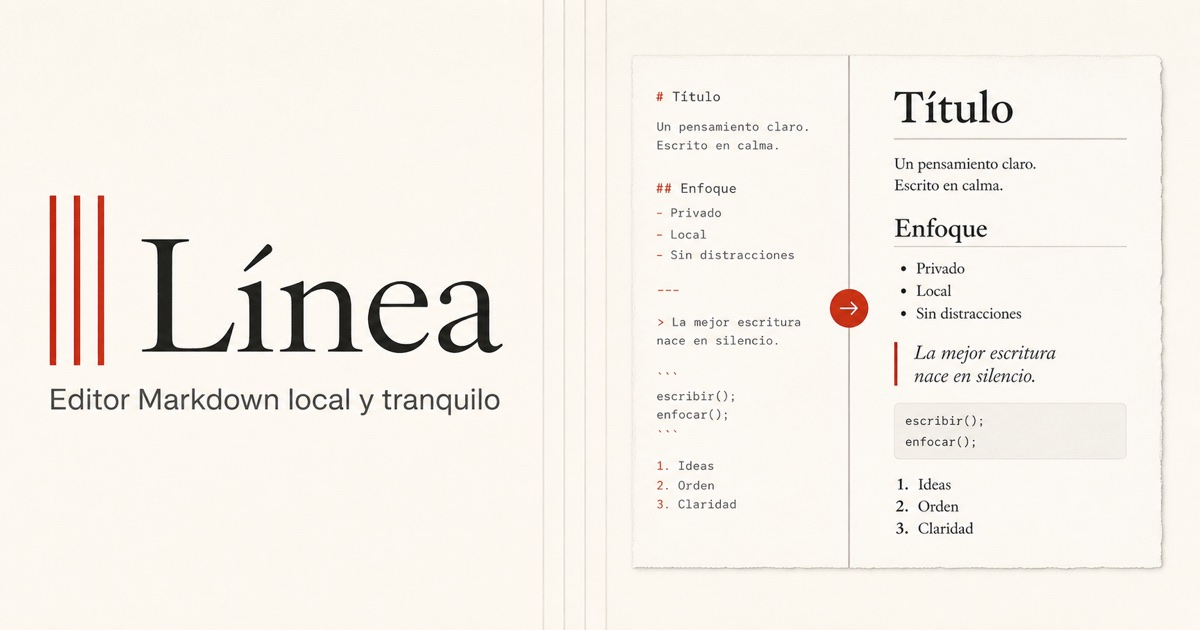
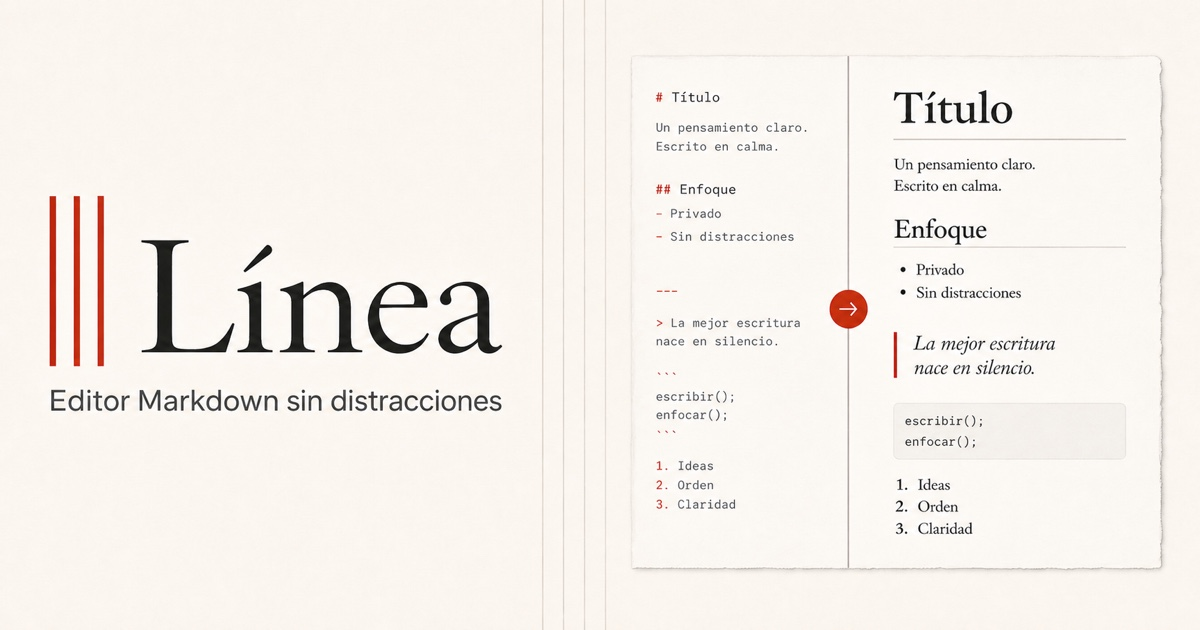
Update social preview messaging

diff --git a/index.html b/index.html
@@ -4,25 +4,25 @@
     <meta charset="UTF-8" />
     <meta name="viewport" content="width=device-width, initial-scale=1.0" />
     <meta name="theme-color" content="#f7f6f2" />
-    <meta name="description" content="Línea, un editor Markdown tranquilo y directo." />
+    <meta name="description" content="Escribe, previsualiza y exporta Markdown sin distracciones." />
     <link rel="canonical" href="https://linea-markdown-editor.marcgt.chatgpt.site/" />
     <meta property="og:type" content="website" />
     <meta property="og:locale" content="es_ES" />
     <meta property="og:site_name" content="Línea" />
     <meta property="og:url" content="https://linea-markdown-editor.marcgt.chatgpt.site/" />
     <meta property="og:title" content="Línea — Editor Markdown" />
-    <meta property="og:description" content="Escribe, previsualiza y exporta Markdown con privacidad local y sin distracciones." />
+    <meta property="og:description" content="Escribe, previsualiza y exporta Markdown sin distracciones." />
     <meta property="og:image" content="https://linea-markdown-editor.marcgt.chatgpt.site/og.jpg" />
     <meta property="og:image:secure_url" content="https://linea-markdown-editor.marcgt.chatgpt.site/og.jpg" />
     <meta property="og:image:type" content="image/jpeg" />
     <meta property="og:image:width" content="1200" />
     <meta property="og:image:height" content="630" />
-    <meta property="og:image:alt" content="Línea, editor Markdown local y tranquilo" />
+    <meta property="og:image:alt" content="Línea, editor Markdown sin distracciones" />
     <meta name="twitter:card" content="summary_large_image" />
     <meta name="twitter:title" content="Línea — Editor Markdown" />
-    <meta name="twitter:description" content="Escribe, previsualiza y exporta Markdown con privacidad local y sin distracciones." />
+    <meta name="twitter:description" content="Escribe, previsualiza y exporta Markdown sin distracciones." />
     <meta name="twitter:image" content="https://linea-markdown-editor.marcgt.chatgpt.site/og.jpg" />
-    <meta name="twitter:image:alt" content="Línea, editor Markdown local y tranquilo" />
+    <meta name="twitter:image:alt" content="Línea, editor Markdown sin distracciones" />
     <title>Línea — Editor Markdown</title>
   </head>
   <body>